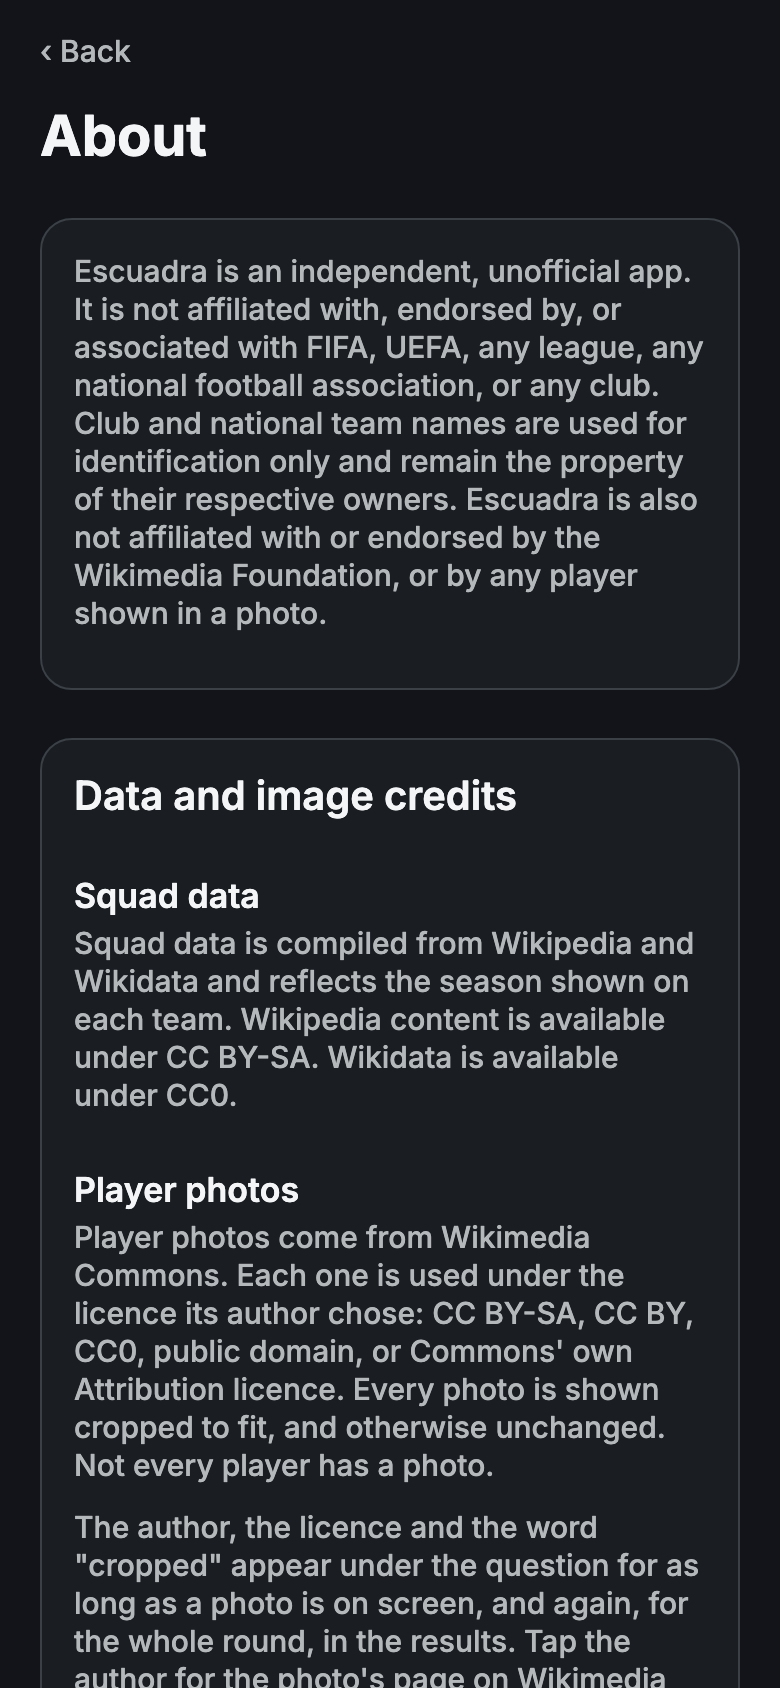
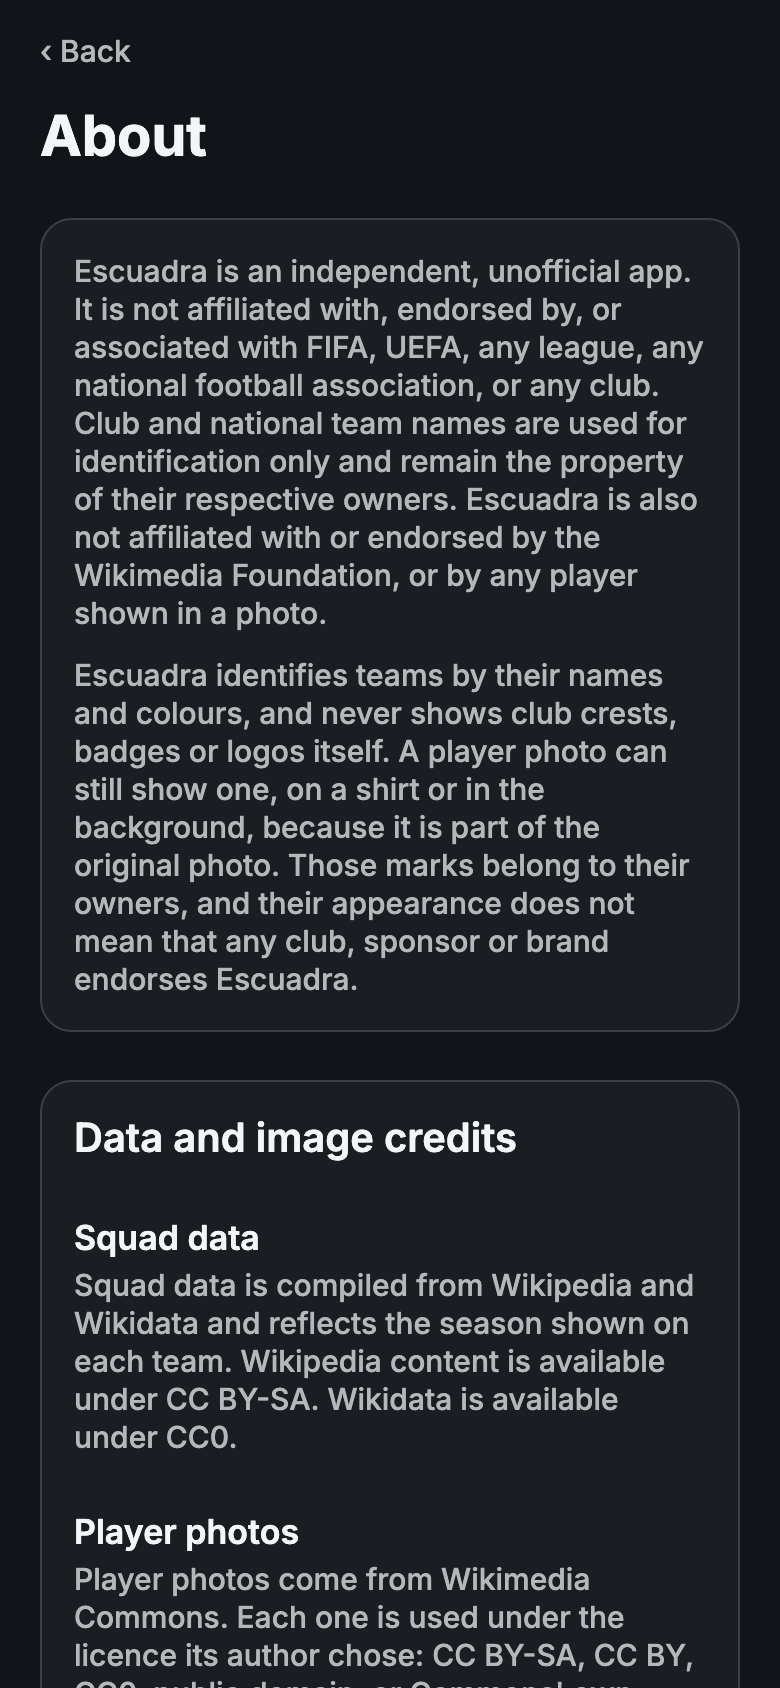
docs(about): say how photos are shown and that crests can appear in them; About stays true (#128)
About no longer claims photos are "otherwise unchanged": it says they are
cropped, shaded under text, dimmed after a miss, or framed over a darkened
copy, and that the files are not edited. The credits sentence points at
"Photo credits" on Results. A new paragraph says Escuadra never shows
crests itself, that a photo can show one, and that the marks belong to
their owners and imply no endorsement.

CLAUDE.md gains guardrail 7 (the About screen stays true: flag and fix in
the same PR, discussing it with the owner when it needs a judgement), and
guardrail 2 and docs/license.md cover crests that appear in photos.

Changed region(s): [[0.0923, 0.3697, 0.8923, 1.0], [0.9231, 0.6161, 0.9538, 0.6469], [0.9231, 0.4005, 0.9538, 0.4313]]

diff --git a/app/about.tsx b/app/about.tsx
@@ -87,6 +87,13 @@ export default function About() {
             their respective owners. Escuadra is also not affiliated with or endorsed by the
             Wikimedia Foundation, or by any player shown in a photo.
           </Text>
+          <Text style={[styles.paragraph, { marginBottom: 0 }]}>
+            Escuadra identifies teams by their names and colours, and never shows club crests,
+            badges or logos itself. A player photo can still show one, on a shirt or in the
+            background, because it is part of the original photo. Those marks belong to their
+            owners, and their appearance does not mean that any club, sponsor or brand endorses
+            Escuadra.
+          </Text>
         </View>
 
         <View style={styles.section}>
@@ -102,13 +109,16 @@ export default function About() {
           <Text style={styles.paragraph}>
             Player photos come from Wikimedia Commons. Each one is used under the licence its author
             chose: CC BY-SA, CC BY, CC0, public domain, or Commons&apos; own Attribution licence.
-            Every photo is shown cropped to fit, and otherwise unchanged. Not every player has a
-            photo.
+            Every photo is cropped to fit its frame. Where the app&apos;s text sits over a photo,
+            the app shades that part of the screen, and it dims the photo after a wrong answer. A
+            photo too small to fill the screen is shown whole, over a darkened copy of itself. The
+            photo files themselves are not edited. Not every player has a photo.
           </Text>
           <Text style={styles.paragraph}>
             The author, the licence and the word &quot;cropped&quot; appear under the question for
-            as long as a photo is on screen, and again, for the whole round, in the results. Tap the
-            author for the photo&apos;s page on Wikimedia Commons, or the licence for its terms.
+            as long as a photo is on screen, and again, for the whole round, under &quot;Photo
+            credits&quot; in the results. Tap the author for the photo&apos;s page on Wikimedia
+            Commons, or the licence for its terms.
           </Text>
 
           <Text style={styles.subHeading}>Flags and fonts</Text>

diff --git a/docs/superpowers/handoff/2026-10-16-2-0-redesign-handoff.md b/docs/superpowers/handoff/2026-10-16-2-0-redesign-handoff.md
@@ -22,12 +22,20 @@
 
 `main` now carries most of 2.0. Whichever release branch is cut from `main` next (the photo build, #60, or 2.0.0) ships it. #114 part 2 moved the fingerprint: it adds `react-native-view-shot` and `expo-sharing`. So none of 2.0 can reach a 1.x binary over the air.
 
-## Questions only the owner can answer
+## The owner's decisions (2026-10-16, #128)
 
-These touch the legal asset-licensing guardrail, so no session decided them.
+Both questions touched the legal asset-licensing guardrail, so no session decided them.
 
-1. **"Otherwise unchanged."** The About credits say photos are "shown cropped to fit, and otherwise unchanged". The stage now shades the photo: a gradient into the ground, a 10 % dim on a miss, and a darkened copy behind a framed photo. Results' player cards shade theirs with `cardGradient`; the circles show the photo unshaded. The reviewers' read is that there is no licence breach, because the credit names the crop and the shading is presentation. But the sentence is untrue on its face; a suggestion is "cropped to fit and shaded under the screen's text". #114 part 2 added its own About text but left this sentence alone. It is still open, and it must be settled before #116 publishes `privacy.html`.
-2. **Crests in photos.** The full-bleed stage makes kit crests and sponsor logos far more visible than the 1.x hero did; Spain's crest is clear in `design/screens/06–08`, and on Pedri's card in `09-results.png`. `docs/license.md` says crests are "never — whatever their licence", and it is silent on crests that appear incidentally inside a licensed photo. One sentence affirming the photo decision would close it.
+1. **How photos are shown.** About said each photo is "shown cropped to fit, and otherwise unchanged", which was untrue once the screens shaded photos. The owner asked for the text to be adjusted. About now says:
+   - photos are cropped to fit;
+   - they are shaded where text sits over them and dimmed after a miss;
+   - a photo too small to fill the screen sits whole over a darkened copy;
+   - the files themselves are not edited.
+
+   The credit line's change note stays "cropped".
+
+2. **Crests in photos.** About now says Escuadra never shows crests itself, but a photo can show one, on a shirt or in the background. Those marks belong to their owners and imply no endorsement. `CLAUDE.md` guardrail 2 and `docs/license.md` say the same, and forbid cropping to, enlarging or isolating a crest.
+3. **A new rule, `CLAUDE.md` guardrail 7.** A change that could make About untrue is flagged and fixed in the same PR: directly when the wording is plain, and after discussing it with the owner when it needs a judgement.
 
 ## Decisions taken on the owner's behalf
 

diff --git a/CLAUDE.md b/CLAUDE.md
@@ -120,7 +120,10 @@ update this file in the same PR rather than leave a stale rule behind.
    column. Never a Unicode regional-indicator emoji (🇦🇷) — that depends on an
    OS flag-emoji font, and Windows ships none, so the Playwright capture behind
    `npm run shots` would render "AR". Crests, badges, logos, and shield shapes
-   remain banned forever.
+   remain banned forever. A crest that appears in a licensed player photo, on a
+   kit or in the background, is part of that photo, not something Escuadra
+   shows: never crop to it, enlarge it, isolate it or use it to identify a team.
+   About says so, and says the marks belong to their owners.
 
    **Asset licensing (legal):** every shipped image must have a licence
    someone can name. What each licence asks, which ones player photos may
@@ -179,6 +182,17 @@ update this file in the same PR rather than leave a stale rule behind.
    Descriptive store copy (an App Store subtitle, a Play short description)
    may use category words like "football squad quiz"; that is ASO, not a
    rename.
+7. **The About screen stays true.** It states:
+   - what leaves the device and what is stored on it;
+   - how photos are shown and credited;
+   - which assets are used, under which licence;
+   - that Escuadra is unaffiliated.
+
+   A change that could make any of that untrue is flagged in its PR, and the
+   text is fixed in the same PR. When the right wording is plain, write it.
+   When it needs a privacy, licensing or legal judgement, stop and discuss it
+   with the owner first. The Privacy section also reaches `privacy.html` word
+   for word (guardrail 4).
 
 ## Data model
 

diff --git a/docs/license.md b/docs/license.md
@@ -93,6 +93,14 @@ stay under the OFL, with `OFL.txt` beside them. The store badges may be used
 only unmodified and only for a store where the app is live, with Apple's and
 Google's credit lines on the site.
 
+A crest, badge or sponsor logo can still appear in a player photo, on a kit
+or in the background. It comes with the photo, and it is not an asset
+Escuadra ships. The photo's licence covers the photo, not the mark, which stays
+its owner's. Escuadra never crops to one, enlarges one,
+or uses one to identify a team. About says so, and says the marks belong to
+their owners and imply no endorsement. This was decided by the owner on
+2026-10-16 (#128).
+
 Squad data — names, numbers, positions, dates — is facts, not images. squadctl
 takes the facts from Wikipedia and Wikidata (Wikidata is CC0), not article
 text.
@@ -130,6 +138,10 @@ question is on screen:
 - **Licence** — its exact short name, linking the licence deed, or the Commons
   page when there is no deed (public domain).
 - **cropped** — the change we make: every screen crops the photo to its frame.
+  The screens also shade it where their text sits over it, and dim it after a
+  miss, and a photo too small to fill the stage sits whole over a darkened copy
+  of itself. That is the app's presentation, drawn over the photo; the file is
+  not edited. About says all of this (`CLAUDE.md`, guardrail 7).
 
 The **title is deliberately left out**. A Commons file name or caption names
 the player, and showing it would answer the question (`CLAUDE.md`, guardrail 1).
